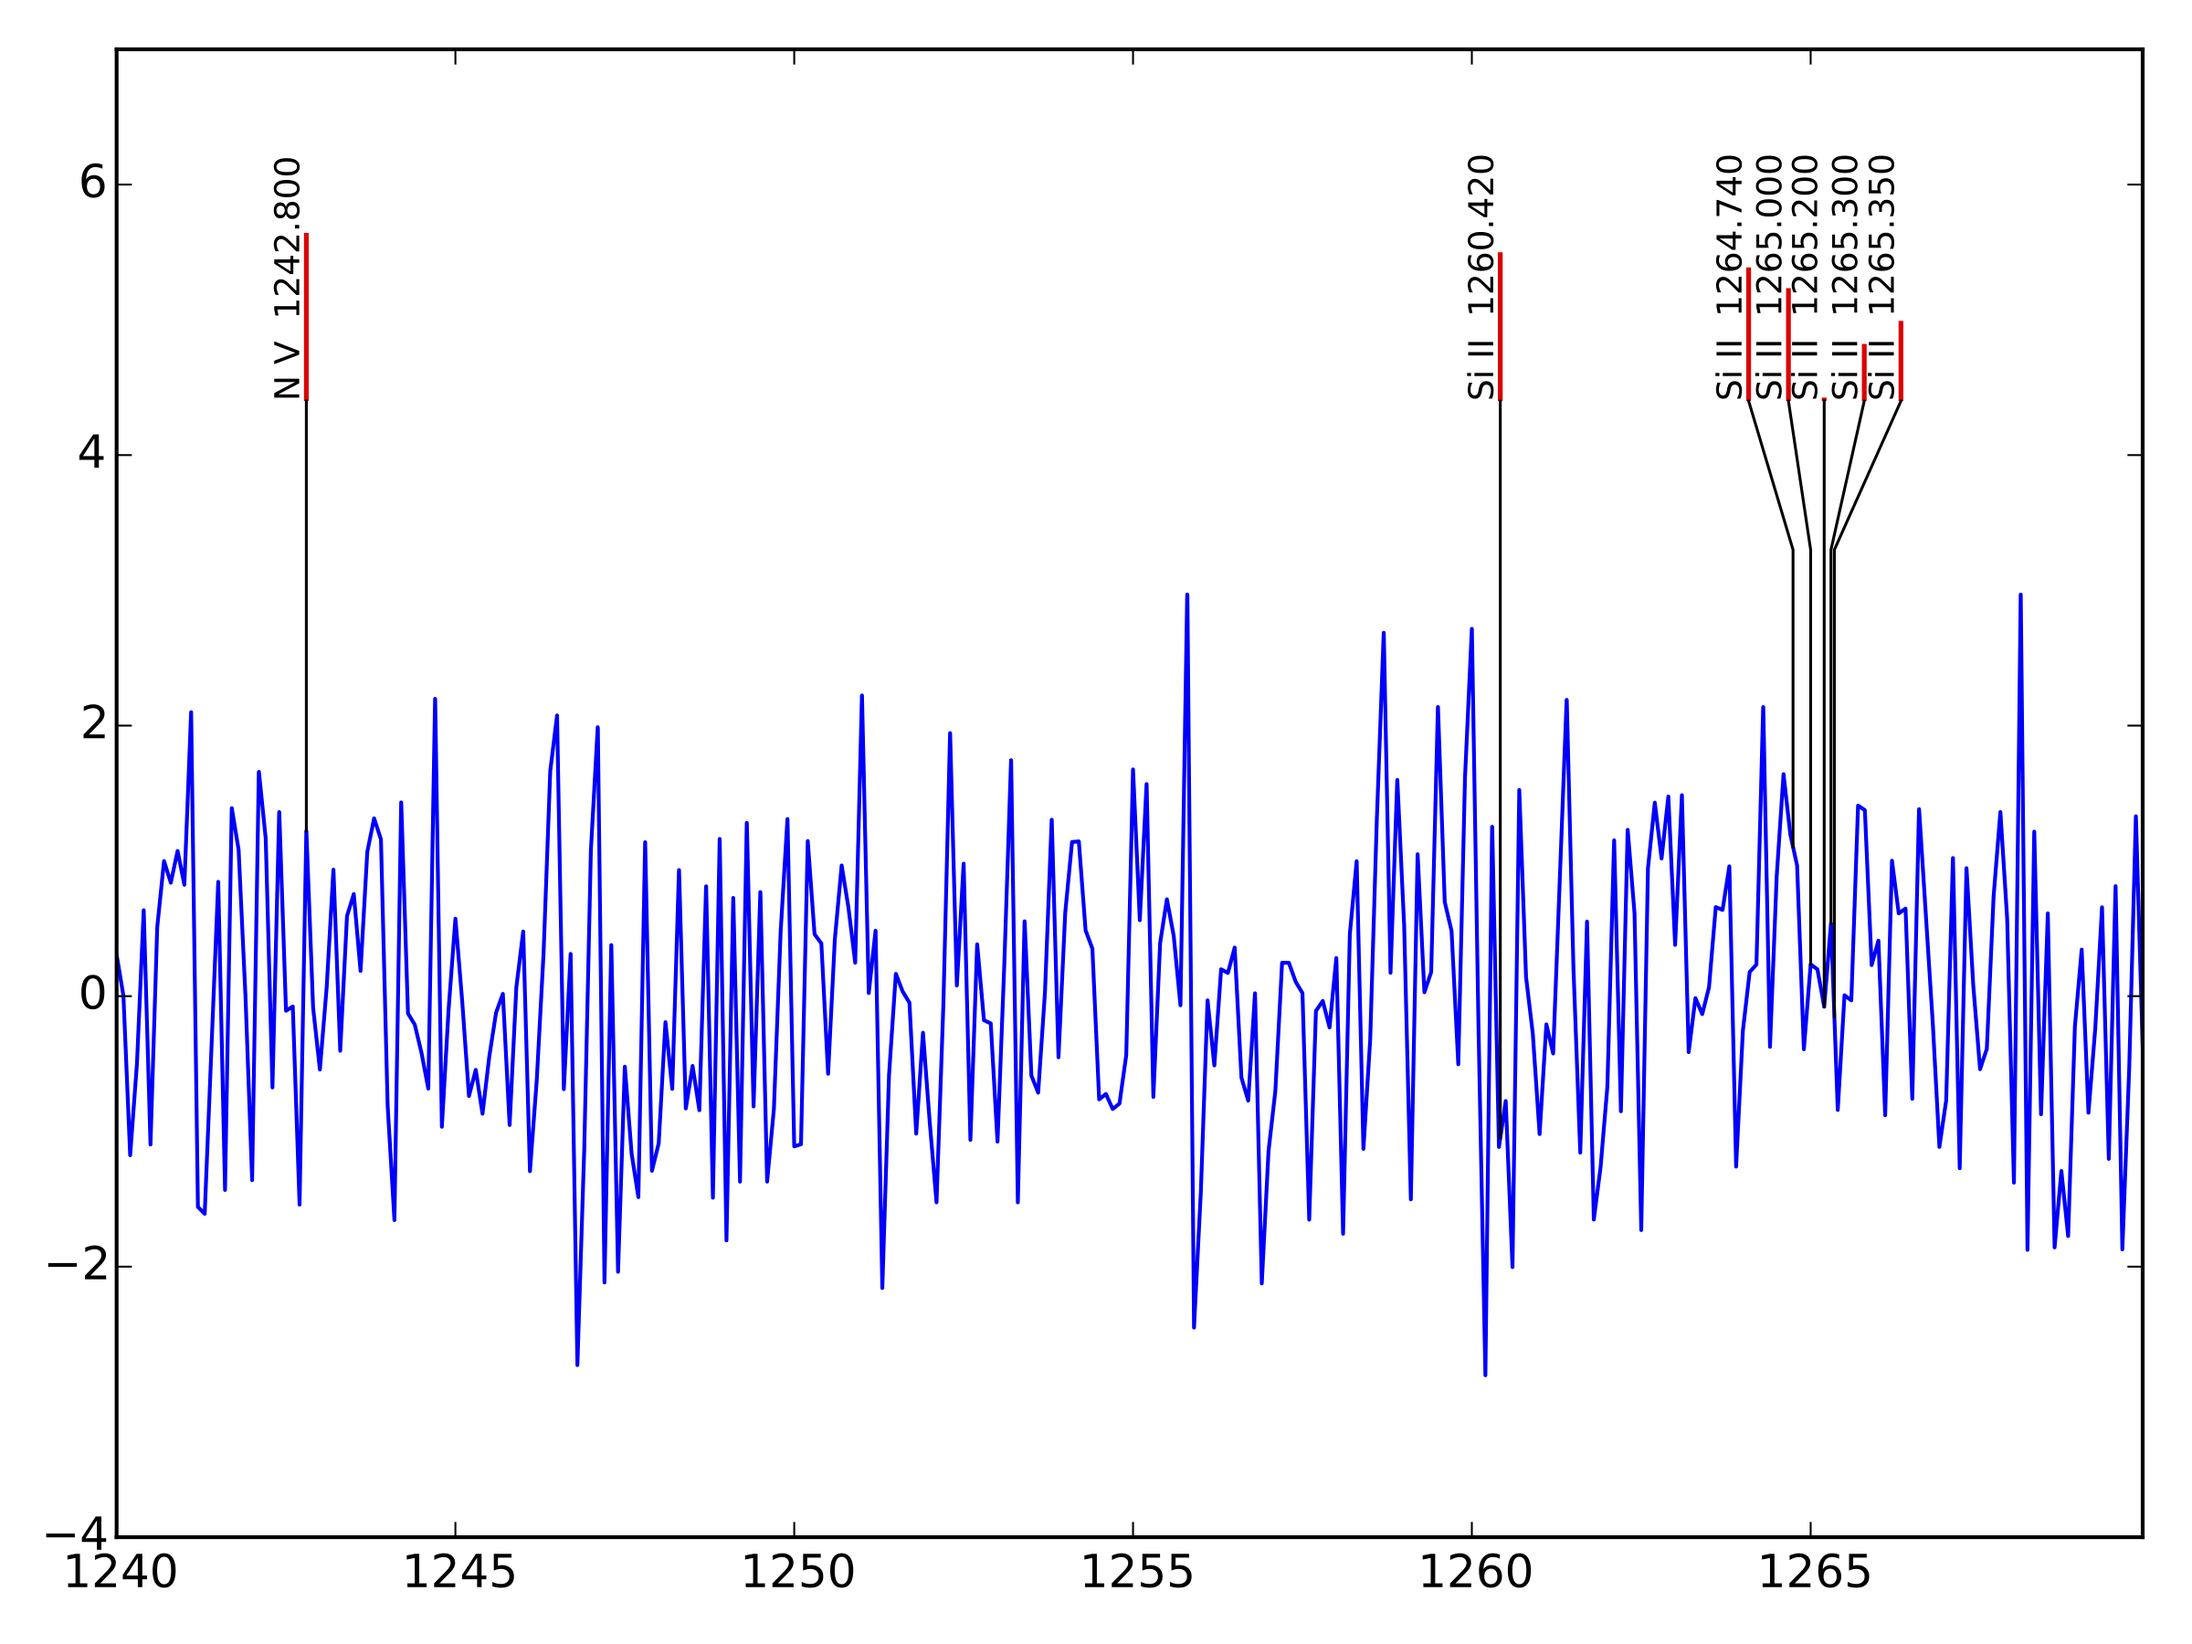
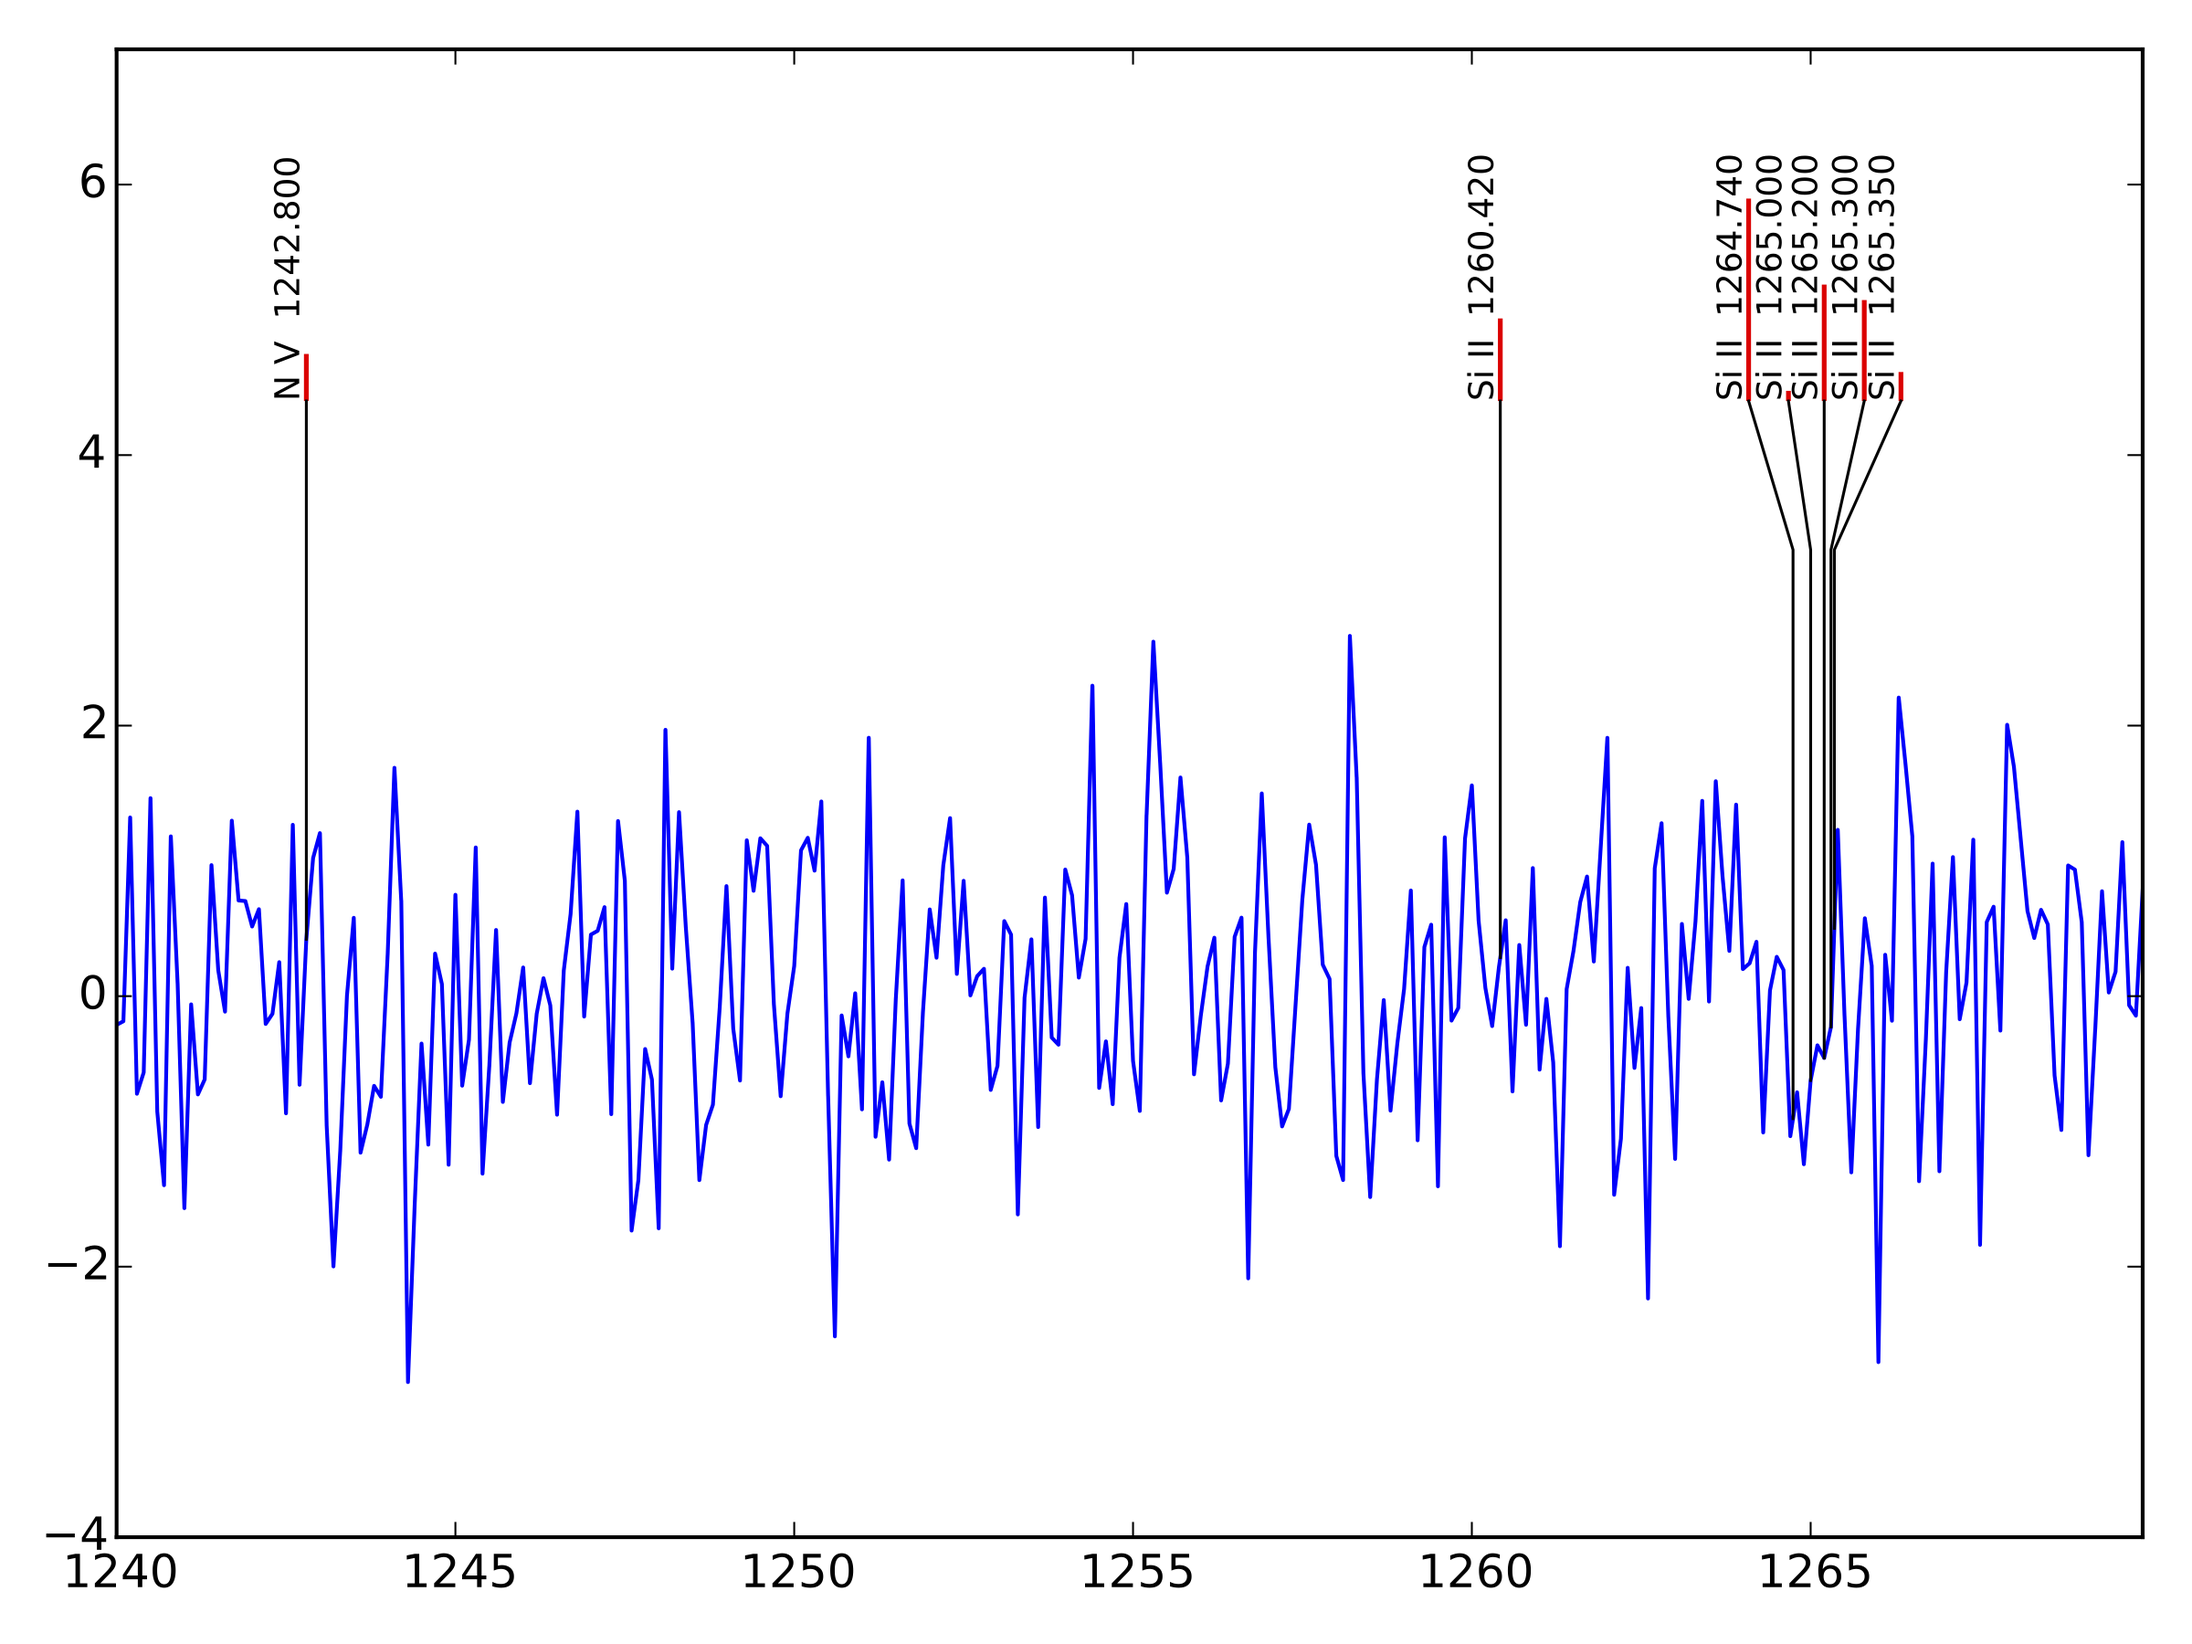
Code cleanup

Changed region(s): [[0.0312, 0.4044, 1.0, 0.8089], [0.8125, 0.1867, 0.875, 0.2489]]

diff --git a/pylineid.py b/pylineid.py
@@ -31,16 +31,6 @@ def _convert_to_array(x, size, name):
 
     return xa
 
-def get_line_flux(line_wave, wave, flux, **kwargs):
-	"""
-    Interpolated flux at a given wavelength (calls np.intrep).
-
-    Notes (N. Rusomarov)
-    --------------------
-    Taken verbatim from https://github.com/phn/lineid_plot
-    """
-	return np.interp(line_wave, wave, flux, **kwargs)
-
 def adjust_boxes(line_wave, box_widths, left_edge, right_edge,
                  max_iter=1000, adjust_factor=0.35,
                  factor_decrement=3.0, fd_p=0.75):
@@ -250,7 +240,7 @@ def put_lines(ax, cwaves, fluxes, ypos2, ypos3, labels,
 	# Find final x locations of boxes so that they don't overlap.
 	# Function adjust_boxes uses a direct translation of the equivalent
 	# code in lineid_plot.pro in IDLASTRO.
-	edges = (np.min(wave)+text_widths[0], np.max(wave)-text_widths[-1])
+	edges = (ax.get_xlim()[0]+text_widths[0], ax.get_xlim()[1]-text_widths[-1])
 	xpos3, niter, changed = adjust_boxes(cwaves, text_widths, *edges, **adjustkwargs)
 
 	# Redraw the boxes at their new x location.

diff --git a/pylineid_example.py b/pylineid_example.py
@@ -1,14 +1,17 @@
 import numpy as np
 import matplotlib.pyplot as plt
 
-from pylineid import put_lines
+import pylineid
+
+
+get_line_flux = lambda newx, x, y: np.interp(newx, x, y)
 
 wave = 1240 + np.arange(300) * 0.1
 flux = np.random.normal(size=300)
 
 cwaves = [1242.80, 1260.42, 1264.74, 1265.00, 1265.2, 1265.3, 1265.35]
 fluxes = get_line_flux(cwaves, wave, flux)
-bars = np.random.rand(fluxes.size)
+bars = np.random.rand(fluxes.size) #This shows the relative strength of each line
 labels = ['N V', 'Si II', 'Si II', 'Si II', 'Si II', 'Si II', 'Si II']
 labels = [str("%s %9.3f" %(label,cwave)) for cwave, label in zip(cwaves, labels)]
 
@@ -24,6 +27,6 @@ fig.tight_layout()
 
 ypos2 = 3.3
 ypos3 = 4.4
-res = put_lines(ax, cwaves, fluxes, ypos2, ypos3, labels, bars=bars)
+lines_plot = pylineid.put_lines(ax, cwaves, fluxes, ypos2, ypos3, labels, bars=bars)
 
 fig.savefig('pylineid_example.pdf')
